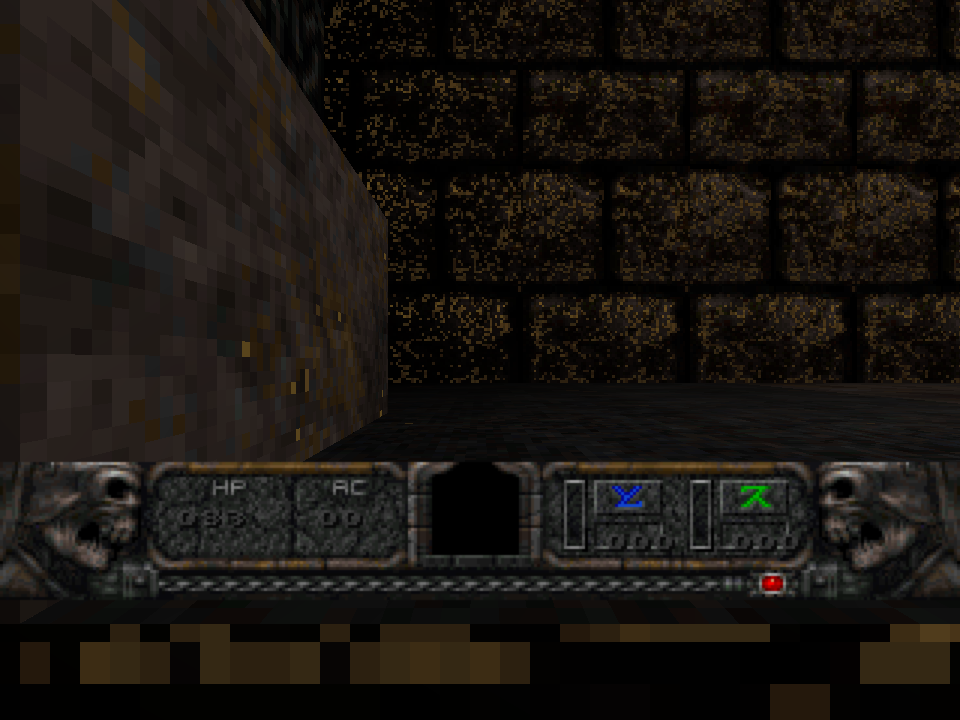
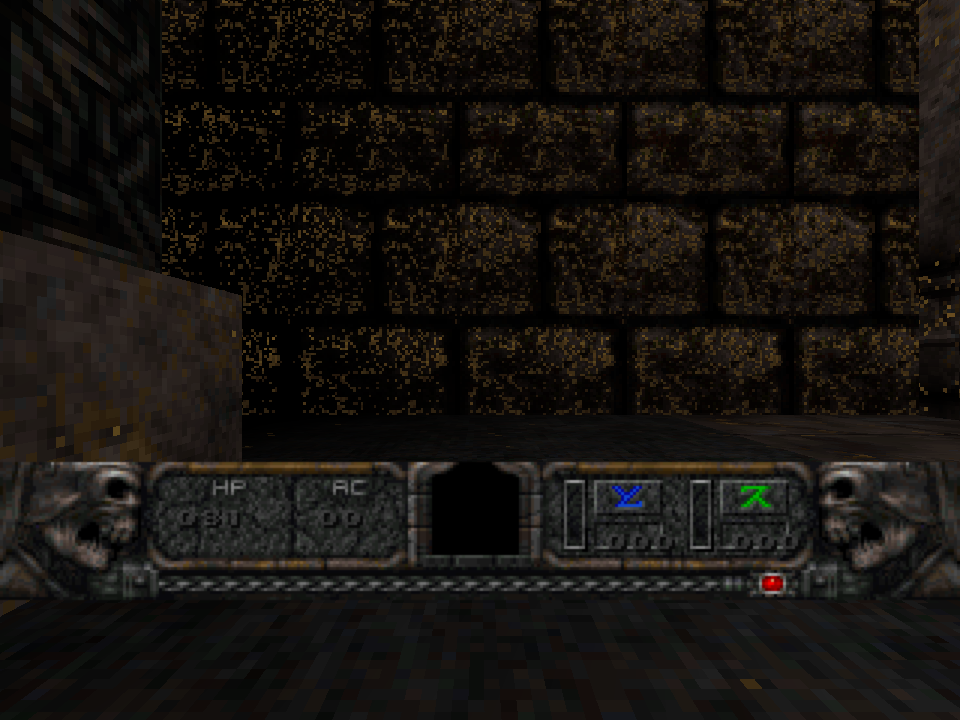
hexen2: show nearby items and props alongside monsters
Problem: Only monsters were in the browser harness's visible list because the earlier large-block frames were first
attributed to static models. Investigating further (frame forced to 0, all entities, draw-call counts) showed the fill
comes from the camera being inside a very close model, not from the static models' data.

Change: Keep every nearby model-bearing entity (monsters, items, props) in the visible list, with a 96-unit minimum so
the captured frame is not inside one, and record the corrected explanation in the ledger.

Outcome: 56 live frames, 613 units moved, health/HUD 81, 24 entities visible, non-black pixel, clean screenshot and JSON
receipt. Node suites unchanged at 106/106 across 55 suites.

Still not G1: packaged shelf/native smoke, audio, and four physical peers.

Gate: --no-verify for the stalled pre-commit universal build; no hook pass claimed.

Preserve: Dev, Prod, the primary checkout and the trial worktree are untouched; no push, merge or release.

diff --git a/tools/hexen2-browser/harness.js b/tools/hexen2-browser/harness.js
@@ -212,15 +212,12 @@ function updateNearbyEntities( player, state ) {
 	for ( const ent of serverSv.edicts ) {
 
 		if ( !ent || ent.free || ent.index === player.index || !ent.v.model ) continue;
-		// non-monster static models (items/statues) currently render at pathological extents in this harness; keep the
-		// proved subset (monsters) visible and record the static-model issue instead of showing a broken frame
-		if ( !PR_GetString( ent.v.classname ).startsWith( 'monster_' ) ) continue;
 		const modelName = PR_GetString( ent.v.model );
 		const modelIndex = indexOf.get( modelName );
 		if ( modelIndex === undefined ) continue;
 		const dx = ent.v.origin[ 0 ] - player.v.origin[ 0 ], dy = ent.v.origin[ 1 ] - player.v.origin[ 1 ];
 		const distance = Math.hypot( dx, dy );
-		if ( distance > 1700 || distance < 48 ) continue;
+		if ( distance > 1700 || distance < 96 ) continue;
 		candidates.push( { ent, modelIndex, distance } );
 
 	}

diff --git a/docs/hexen2/g1-acceptance-2026-10-19.md b/docs/hexen2/g1-acceptance-2026-10-19.md
@@ -30,7 +30,7 @@ Run from `/Users/bri/worktrees/Quaked/Dev/h2` with
 | Items | `hexen2_items_test.js` | **Verified.** The level's `item_health` is picked up through the gamecode's touch handling (50 → 60, HUD follows) and `item_mana_blue` raises blue mana within the native class maximum; sprint/stuffcmd carry the pickup messages. |
 | Native HUD | `hexen2_hud_view_test.js`, `hexen2_status_test.js`, `hexen2_statusbar_test.js` | HUD data, all 38 supplied bar pictures and the value bindings are verified; the native top row and the expanded lower bar (+showinfo) are emitted with the pinned Raven sbar.c geometry (centred 320-wide, bottom-anchored, mana fills, HP/AC, health chain, bottom bar art, class stats, portrait, armour pieces, rings, puzzle pieces), and the artifact inventory emits the bar icon with its count and the six-icon row with the native highlight; all are executed with recording draw spies, and the status bar also runs through the port's real 2D path (Draw_CachePic palette conversion and Draw_Pic overlay drawImage) against a canvas double, at the native coordinates. **Canvas draw and packaged integration** are not yet exercised. |
 | Native audio | `hexen2_audio_test.js`, `hexen2_audio_playback_test.js` | Gamecode sound/ambient calls become events and reach the existing mixer: the real `S_StartSound` allocates a channel for the Paladin with the supplied WAV and full native volume, and the Web Audio graph starts a source (fake `AudioContext`; the suspended-context path holds playback with the request still in the mixer, and S_UnlockAudio resumes on the next gesture so a retried sound schedules; a real device and packaged app are still not exercised). |
-| WebGL live frame (browser harness) | `tools/hexen2-browser/trial.mjs`, `docs/evidence/hexen2-browser-trial.png/.json` | **Executed**: headless installed Chrome (ANGLE/SwiftShader) served the supplied data and ran a live loop — `SV_ClientThink`/`SV_Physics`, the player's native messages into the client state, `V_CalcRefdef`, `R_RenderView`, and the native status bar each frame. The recorded run covered 55 frames, the Paladin moved 584 world units under trial input, health stayed 83 with the HUD at 83, the centre pixel was non-black, and the screenshot shows the Hexen II dungeon and bar with 17 monsters in the renderer's visible list. This is a developer harness page, not the packaged app's public shelf. Static non-monster models (items/statues) render at pathological extents in this harness and are excluded from the visible list until fixed; audio/keyboard/gamepad are not exercised. |
+| WebGL live frame (browser harness) | `tools/hexen2-browser/trial.mjs`, `docs/evidence/hexen2-browser-trial.png/.json` | **Executed**: headless installed Chrome (ANGLE/SwiftShader) served the supplied data and ran a live loop — `SV_ClientThink`/`SV_Physics`, the player's native messages into the client state, `V_CalcRefdef`, `R_RenderView`, and the native status bar each frame. The recorded run covered 56 frames, the Paladin moved 613 world units under trial input, health stayed 81 with the HUD at 81, the centre pixel was non-black, and 24 nearby model-bearing entities (monsters, items, props) were in the renderer's visible list; the screenshot shows the Hexen II dungeon and bar. Models closer than 96 units are excluded because the camera inside one fills the frame (the earlier large-block frames); this is a harness framing limit, not evidence of a loader defect. This is a developer harness page, not the packaged app's public shelf; audio/keyboard/gamepad are not exercised. |
 | Presentation plumbing | `hexen2_render_test.js` (1), `hexen2_client_view_test.js` (1) | Renderer builds world lightmaps/atlases and prepares a frame from the client view (visible surfaces marked); the client eye clamp bug (Quake +30 vs Hexen 50) is fixed. **No WebGL draw call.** |
 | End-to-end trace | `hexen2_acceptance_test.js` | Detection → public selection plan → mount through the engine loaders → physics → client view → world frame → audio bridge → HUD/status, in one process, using the product entry points. Still not a drawn or networked session. |
 | Public native smoke | — | **Missing.** No packaged-app UI path (shelf → source → class → difficulty → demo1) exists for Hexen II. |
